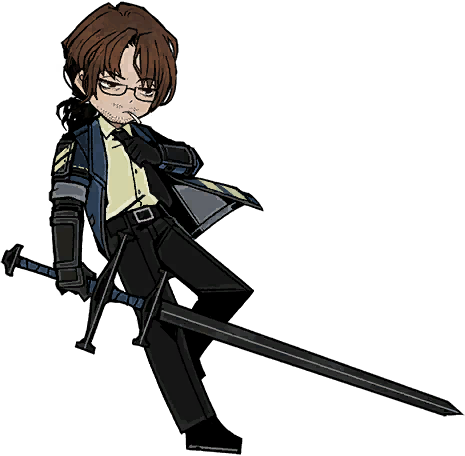
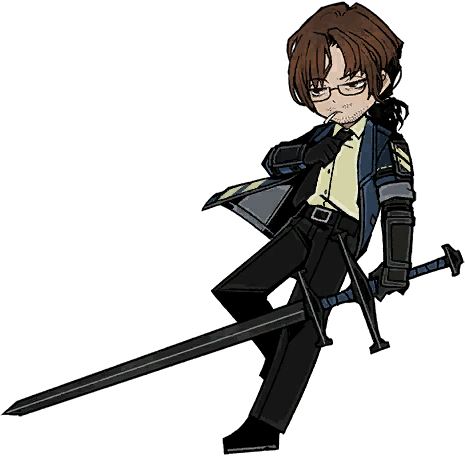
Added outis animation

diff --git a/index.js b/index.js
@@ -33,6 +33,10 @@ const player = new Fighter({
             imageSrc: "./Assets/BLOutis/Idle.png",
             framesMax: 1
         },
+        jump: {
+            imageSrc: "./Assets/BLOutis/Idle.png",
+            framesMax: 1
+        },
         run: {
             imageSrc: "./Assets/BLOutis/Run.png",
             framesMax: 1,
@@ -42,6 +46,15 @@ const player = new Fighter({
             imageSrc: "./Assets/BLOutis/Dodge.png",
             framesMax: 1,
             scale: 2  
+        },
+        block: {
+            imageSrc: "./Assets/BLOutis/Block.png",
+            framesMax: 1,
+            scale: 2
+        },
+        attack1: {
+            imageSrc: "./Assets/BLOutis/attack1.png",
+            framesMax: 7
         }
     }
 })
@@ -79,6 +92,10 @@ const keys = {
         pressed: false
     },
 
+    s: {
+        pressed: false
+    },
+
     ArrowRight: {
         pressed: false
     },
@@ -101,18 +118,25 @@ function animate() {
     enemy.update()
 
     player.velocity.x = 0
-    player.image = player.sprites.idle.image
-    player.scale = 0.25
-
     if (keys.a.pressed && player.lastKey === 'a') {
         player.velocity.x = -5
-        player.scale = 0.5
-        player.image = player.sprites.dodge.image
+        player.switchSprite('run', 0.4)
     } else if (keys.d.pressed && player.lastKey === 'd') {
         player.velocity.x = 5
-        player.scale = 0.5
+        player.switchSprite('run', 0.4)
+    } else {
+        player.switchSprite('idle', 0.25)
+    }
+    
+    if (player.velocity.y < 0) {
+        player.switchSprite('jump', 0.25)
+    } else if (player.velocity.y > 0) {
+        player.switchSprite('idle', 0.25)
+    }
 
-        player.image = player.sprites.run.image
+    if (keys.s.pressed) {
+        player.scale = 0.4
+        player.image = player.sprites.block.image
     }
 
     enemy.velocity.x = 0
@@ -164,6 +188,10 @@ window.addEventListener('keydown', (event) => {
             player.attack()
             break
 
+        case 's':
+            keys.s.pressed = true
+            break
+
         case 'ArrowRight':
             keys.ArrowRight.pressed = true
             enemy.lastKey = 'ArrowRight'
@@ -193,6 +221,8 @@ window.addEventListener('keyup', (event) => {
         case 'w':
             keys.w.pressed = false
             break
+        case 's':
+            keys.s.pressed = false
 
         case 'ArrowRight':
             keys.ArrowRight.pressed = false

diff --git a/classes.js b/classes.js
@@ -124,9 +124,61 @@ class Fighter extends Sprite {
     }
 
     attack() {
+        this.switchSprite('attack1')
         this.isAttacking = true
-        setTimeout(() => {
-            this.isAttacking = false
-        }, 100)
+      }
+    
+    takeHit() {
+        this.health -= 20
+    
+        if (this.health <= 0) {
+          this.switchSprite('death')
+        } else this.switchSprite('takeHit')
+    }
+    
+
+    switchSprite(sprite, scale=1 ) {
+        if (this.image === this.sprites.attack1.image && this.framesCurrent < this.sprites.attack1.framesMax-1) return
+        this.scale = scale
+        switch(sprite) {
+            case 'idle':
+                if (this.image !== this.sprites.idle.image) {
+                    this.image = this.sprites.idle.image
+                    this.framesMax = this.sprites.idle.framesMax
+                    this.framesCurrent = 0
+                }
+                break
+            case 'run':
+                if (this.image !== this.sprites.run.image) {
+                    this.image = this.sprites.run.image
+                    this.framesMax = this.sprites.run.framesMax
+                    this.framesCurrent = 0
+                }
+               break
+            case 'takeHit':
+                if (this.image !== this.sprites.takeHit.image) {
+                    this.image = this.sprites.takeHit.image
+                    this.framesMax = this.sprites.takeHit.framesMax
+                    this.framesCurrent = 0
+                }
+                break
+
+            case 'attack1':
+                if (this.image !== this.sprites.attack1.image) {
+                    this.scale = 0.45
+                    this.image = this.sprites.attack1.image
+                    this.framesMax = this.sprites.attack1.framesMax
+                    this.framesCurrent = 0
+                }
+                break
+        
+            case 'death':
+                if (this.image !== this.sprites.death.image) {
+                    this.image = this.sprites.death.image
+                    this.framesMax = this.sprites.death.framesMax
+                    this.framesCurrent = 0
+                }
+            break
+        }
     }
 }
